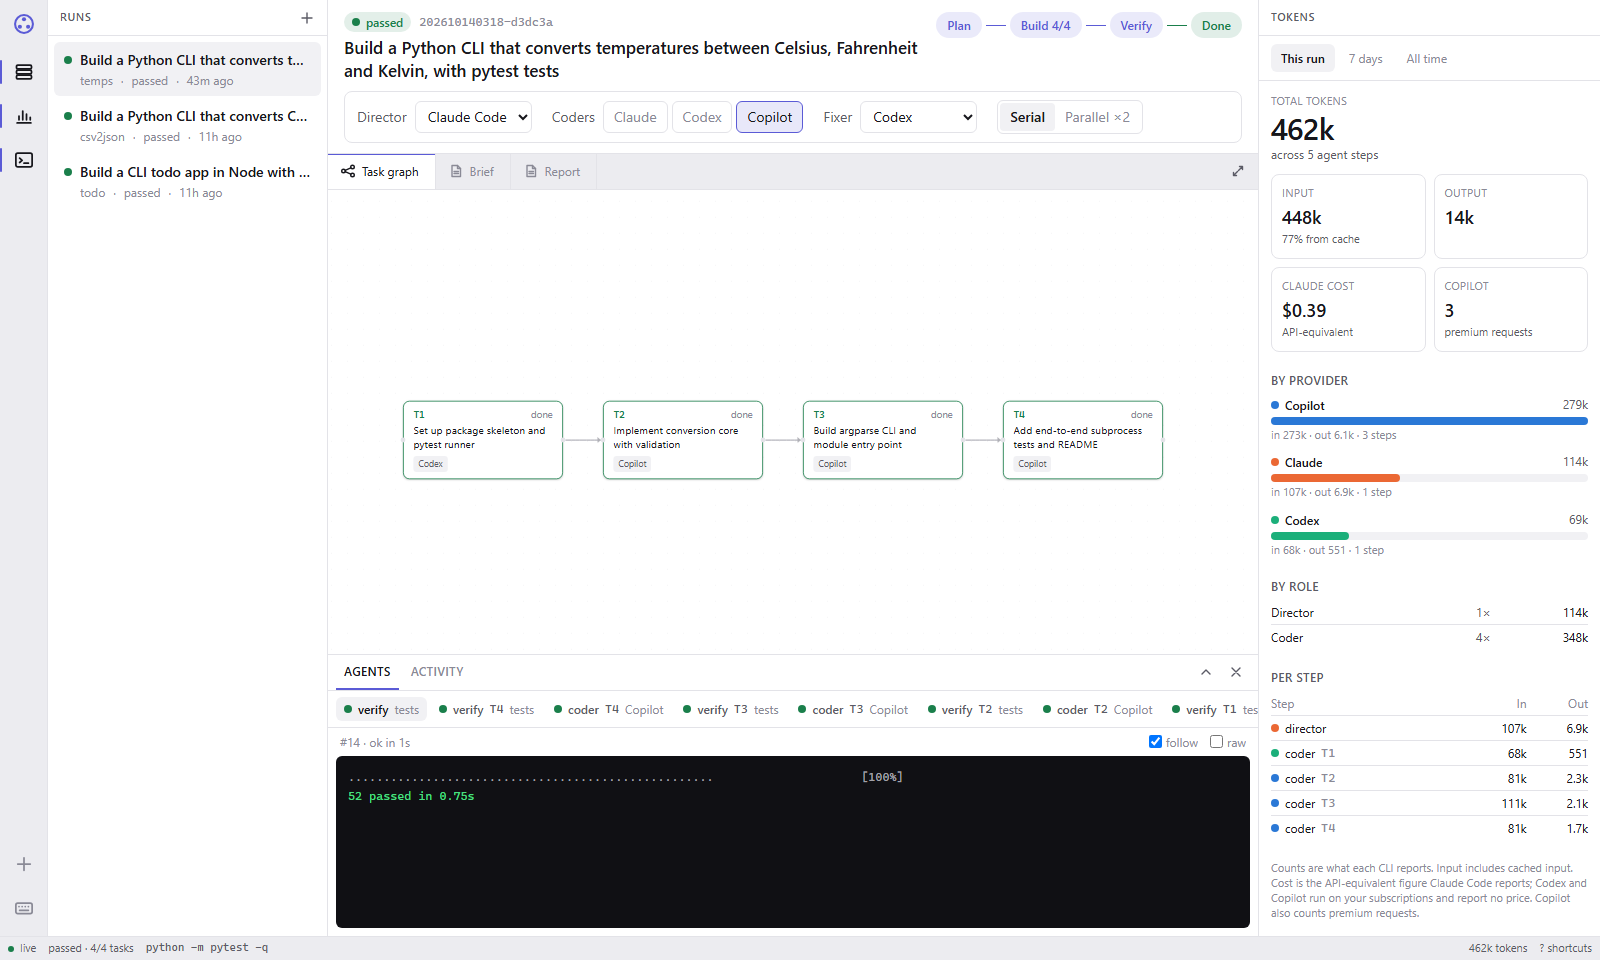
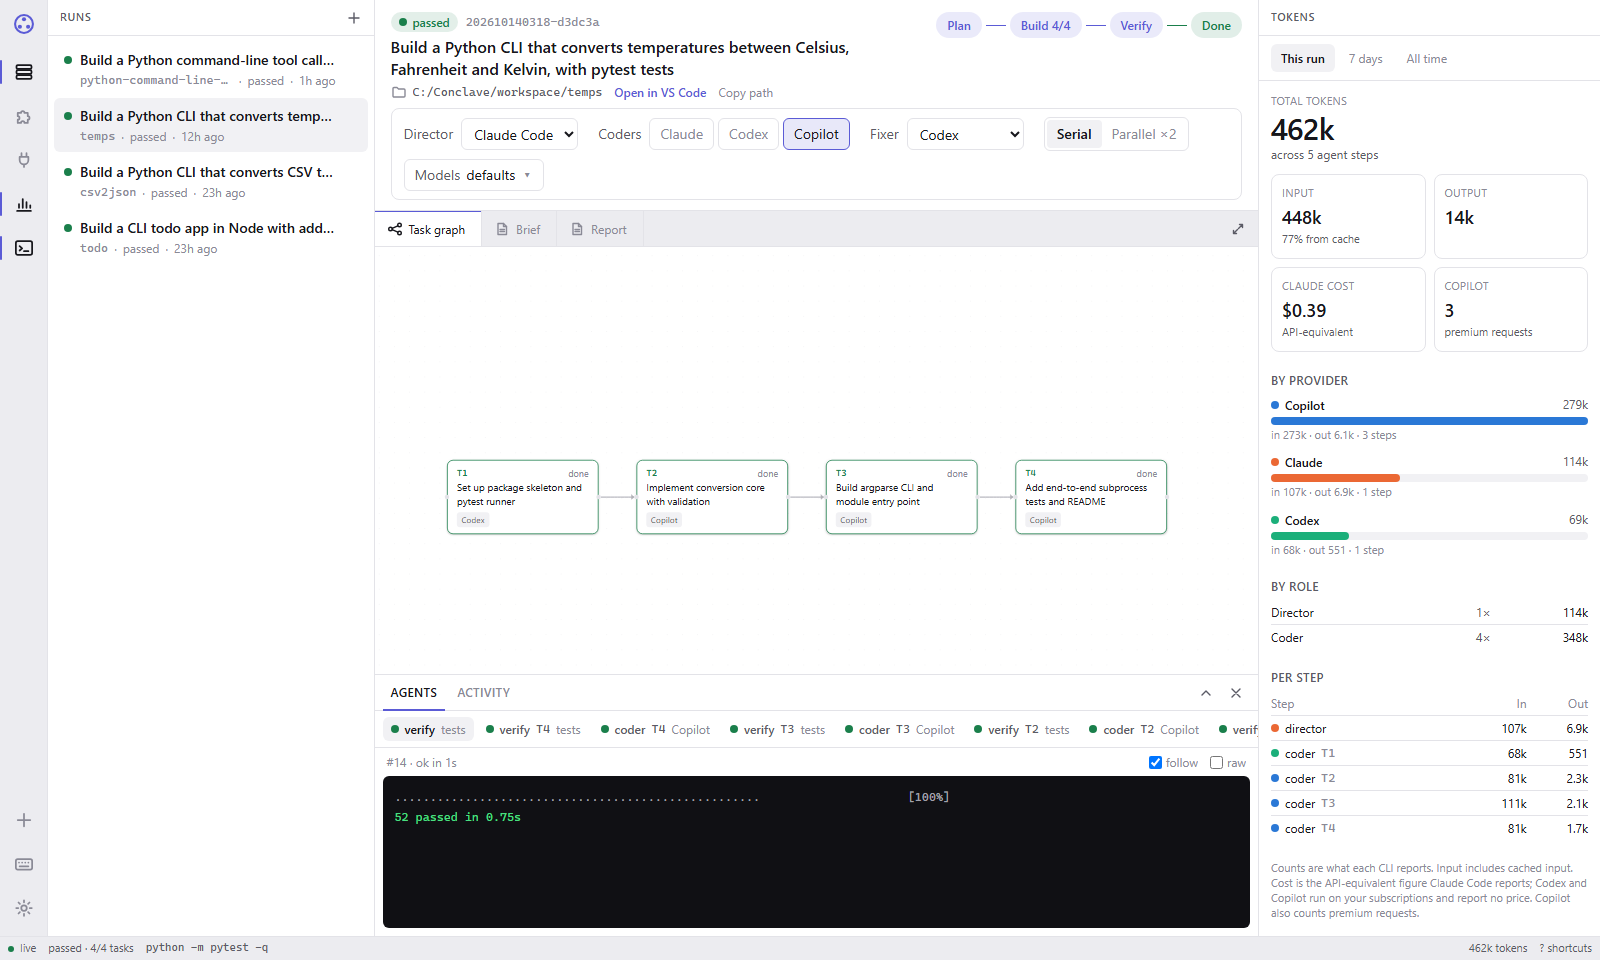
Conclave 0.4.0: extensions and connector marketplaces, model availability, choose your projects folder, Open in VS Code

diff --git a/README.md b/README.md
@@ -7,8 +7,10 @@
 - **Plans before it builds.** A brief with goals and assumptions, and a task graph where each task has acceptance criteria and the tests that prove it.
 - **Tests decide.** Coders write tests first, and a failing task goes to a fixer agent, up to three tries.
 - **Your team, your choice.** Pick the Director, the coders (one, or several taking turns) and the fixer, and change them mid-run.
-- **Pick the model.** Choose each agent's model and reasoning effort from its live model list, and change them mid-run.
-- **Connectors and plugins.** Give agents MCP servers (docs lookup, GitHub and more, with one-click presets) and manage each CLI's plugins from the dashboard.
+- **Pick the model.** Choose each agent's model and reasoning effort from its live model list, and change them mid-run. Models your plan doesn't include are detected and marked, and runs fall back to the default automatically.
+- **Extensions, like VS Code.** Browse and install thousands of plugins from each agent's own marketplace: Claude's official directory, Copilot's awesome-copilot, and Codex's catalog.
+- **Connectors.** Search the official MCP Registry and add servers (GitHub, databases, docs lookup and more) in one click.
+- **Your projects, your editor.** Choose where projects are saved, open any project in VS Code with one click, and delete runs you don't need.
 - **Serial or parallel.** Independent tasks can be built side by side, each in its own git branch, and merged when green.
 - **See everything.** A live task graph, each agent's output, diffs, the brief and report in a full-screen reader, and a token dashboard showing what each agent used.
 - **Safe by default.** Agents work inside a Docker container that only sees your projects folder. See [SECURITY.md](SECURITY.md).
@@ -40,6 +42,7 @@ curl -fsSL https://raw.githubusercontent.com/MVSanjayNiranjan/conclave/main/inst
 
 The installer:
 - checks Docker
+- asks where to save your projects (default: a `workspace` folder inside `conclave`)
 - downloads Conclave into a `conclave` folder in your home directory
 - starts it
 - installs the three agent CLIs from their official sources
@@ -79,7 +82,8 @@ docker compose exec conclave copilot login --device-code
 1. Click **New run**.
 2. Describe the project, for example *"Build a Python CLI that converts CSV to JSON, with pytest tests"*.
 3. Pick the team and the build mode (Serial, or Parallel ×2), and start.
-4. Watch it work. The project appears in `conclave/workspace/<name>` on your computer as a normal git repository, with one commit per step.
+4. Watch it work. The project appears in your projects folder as a normal git repository, with one commit per step. Leave the folder name blank and Conclave names it from your prompt (for example `ledger`).
+5. When it's done, click **Open in VS Code** under the title to run, debug or edit it.
 
 The roles bar changes the team for the next step, even mid-run. Its **Models** button sets each agent's model and reasoning effort. The lists come live from each CLI: Codex shows the effort levels each model supports, and Copilot lists every model your plan offers. Click a task in the graph to see its tests, its diff, pin it to a specific coder, retry it or skip it.
 
@@ -104,21 +108,44 @@ The **token panel** shows tokens for this run, the last 7 days or all time:
 - Claude's reported cost
 - Copilot's premium requests
 
-## Connectors and plugins
+## Extensions and connectors
 
-**Connectors** are MCP servers that give agents extra tools. Open the plug icon in the activity bar:
-- Add one from a preset: **Context7** docs, **Sequential thinking**, **Memory** or **GitHub**. Or add your own as a command, such as `npx some-mcp@1.2.3`, or as an `https://` URL.
-- Choose which agents get each connector, and switch it on or off at any time. Changes apply from the next agent step.
-- API keys and tokens go in the connector's secret fields. They're stored locally, never shown again, and never written to logs.
+**Extensions** (puzzle icon) work like VS Code's Extensions view:
+- Pick an agent (Claude, Codex or Copilot) and search its marketplaces.
+- Click **Install** or **Uninstall**, or open an extension to see its details and source.
+- Add more marketplaces at the bottom of the list.
 
-**Plugins**: open the puzzle icon. For each agent:
-- see its installed plugins
-- install or uninstall by name (for example `name@marketplace`)
-- add a marketplace
+Extensions are installed with each CLI's own `plugin` command, so they behave exactly as they do in that CLI, and they load in every later agent step.
 
-This uses each CLI's own `plugin` command, so the plugins work just as they do in that CLI.
+**Connectors** (plug icon) are MCP servers that give agents extra tools:
+- **Marketplace** tab: search the official MCP Registry and click **Add**. The form comes prefilled with the pinned package and the settings it needs. Fill in any keys it asks for.
+- **Installed** tab: switch connectors on or off, choose which agents get each one, or start from a recommended preset (Context7 docs, Sequential thinking, Memory, GitHub).
+- API keys and tokens are stored locally, never shown again, and never written to logs.
 
-Connectors and plugins can run code inside the container. Add only ones you trust, and pin versions.
+Extensions and connectors are third-party code that runs inside the container. Add only ones you trust, and check the source link.
+
+## Your projects
+
+- **Where they're saved:** the folder you chose during install. Settings (gear icon) shows it.
+- **Open in VS Code:** the link under each run's title, or **⋯ → Open in VS Code** in the Runs list. Use VS Code's terminal to run the project; the brief's "How to run" section has the commands.
+- **Delete:** **⋯ → Delete…** in the Runs list. You can remove the run from the dashboard and keep its files, or delete the project folder too (you'll be asked to type its name).
+- **Change the folder:** edit `.env` next to `docker-compose.yml`:
+
+```
+CONCLAVE_WORKSPACE_DIR=D:/Projects
+CONCLAVE_HOST_WORKSPACE=D:/Projects
+```
+
+Then run `docker compose up -d`. Agents can only see this folder, so don't choose one with private files.
+
+## Choosing models
+
+Open **Models** in the roles bar (or in New run) to set each agent's model and reasoning effort. The lists come from each CLI.
+
+The CLIs can't tell Conclave which models your plan includes. So:
+- **Check** next to a model asks the CLI whether it works for you (one tiny request).
+- If a run uses a model your plan doesn't include, Conclave notices, marks it **not on your plan**, and switches that step to the default model.
+- If a model doesn't take a reasoning effort (like Copilot's **Auto**), the effort setting is disabled and never sent.
 
 ## Everyday commands
 
@@ -157,6 +184,9 @@ wsl --install --web-download --no-distribution
 - **Port 7700 is already in use.** In `docker-compose.yml`, change `127.0.0.1:7700:7700` to `127.0.0.1:7800:7700` and open http://localhost:7800.
 - **An agent says it isn't signed in.** Run its sign-in command from [Install](#install) again.
 - **A run stopped on a usage limit.** It pauses and resumes when you click **Resume** after the limit resets.
+- **You deleted the Docker container.** Nothing is lost: projects, logins and history live outside it. Run `docker compose up -d` to recreate it. Only `docker compose down -v` (with `-v`) deletes logins and history.
+- **A model shows "not on your plan".** Pick another model, or choose **Default model**.
+- **Open in VS Code does nothing.** Install VS Code, and check that Settings shows your projects folder. If it doesn't, add `CONCLAVE_HOST_WORKSPACE` to `.env` as shown above.
 
 ## Security
 

diff --git a/SECURITY.md b/SECURITY.md
@@ -15,6 +15,8 @@ Conclave runs AI coding agents that write and execute code on your machine. This
 | **Agent permissions** | **Claude Code:** edits and a fixed tool list are allowed, and anything else that would prompt is denied. **Copilot CLI:** path checks stay on, its built-in GitHub MCP server is disabled, and `git push` / `rebase` / `reset` are denied. **Codex:** uses its "externally sandboxed" mode only inside the container, and Conclave refuses that mode anywhere else. |
 | **Connector secrets** | API keys and tokens you give connectors are stored in Conclave's local database (its Docker volume). The API returns only their names, never their values. Each step gets them through a private file (mode 0600) that's deleted when the step ends. Where a CLI only takes them as arguments (Codex), they're masked as `***` in the raw logs. |
 | **Model choice** | Model ids and effort levels are checked against a strict allowlist before they reach a command line. |
+| **Marketplaces** | Extension lists come from each CLI's own marketplaces; connector search comes from the official MCP Registry. Registry packages are pinned to the listed version, plain-http remotes are refused, and Docker-only servers aren't offered. |
+| **Deleting projects** | Deleting a project folder needs typing its name, only works for folders inside the projects folder (symlinks resolved), and refuses folders another run still uses. |
 | **Plugins** | Each CLI's own `plugin` command is run with fixed arguments and no shell. Plugin names that could be read as flags or shell syntax are refused. |
 | **Git history** | Every agent step is a commit. A merge that breaks the tests is undone with a new revert commit; history is never rewritten. Nothing is pushed anywhere. |
 | **Supply chain** | The agent CLIs are installed from their official npm packages at pinned versions. The Conclave image is built in CI from a pinned base image. |
@@ -24,6 +26,7 @@ Conclave runs AI coding agents that write and execute code on your machine. This
 - **Your projects are writable by agents.** Anything inside `./workspace` can be changed or deleted by an agent. Keep important work in git and pushed somewhere else.
 - **Network access is on**, because agents need package registries. A misbehaving agent could download things or contact websites from inside the container.
 - **Agents send your project code to their providers** (Anthropic, OpenAI, GitHub) as part of normal operation, under each provider's terms. Don't put secrets you can't share with those providers in `./workspace`.
+- **Marketplace entries are third-party.** Anyone can publish to the plugin marketplaces and the MCP Registry. Check an entry's source before installing it.
 - **Connectors and plugins run code.** An MCP server or plugin runs inside the container with the agents' access. A malicious one could read or change your projects or use the network. Add only ones you trust, and pin versions.
 - **Connector secrets are not encrypted at rest.** They sit in the local database inside the Docker volume. Anyone who can read that volume can read them. Use tokens with the least access you can.
 - **The dashboard has no login.** Anyone who can use your computer's browser can use it. Don't change the port binding to `0.0.0.0` on a shared or untrusted network.
